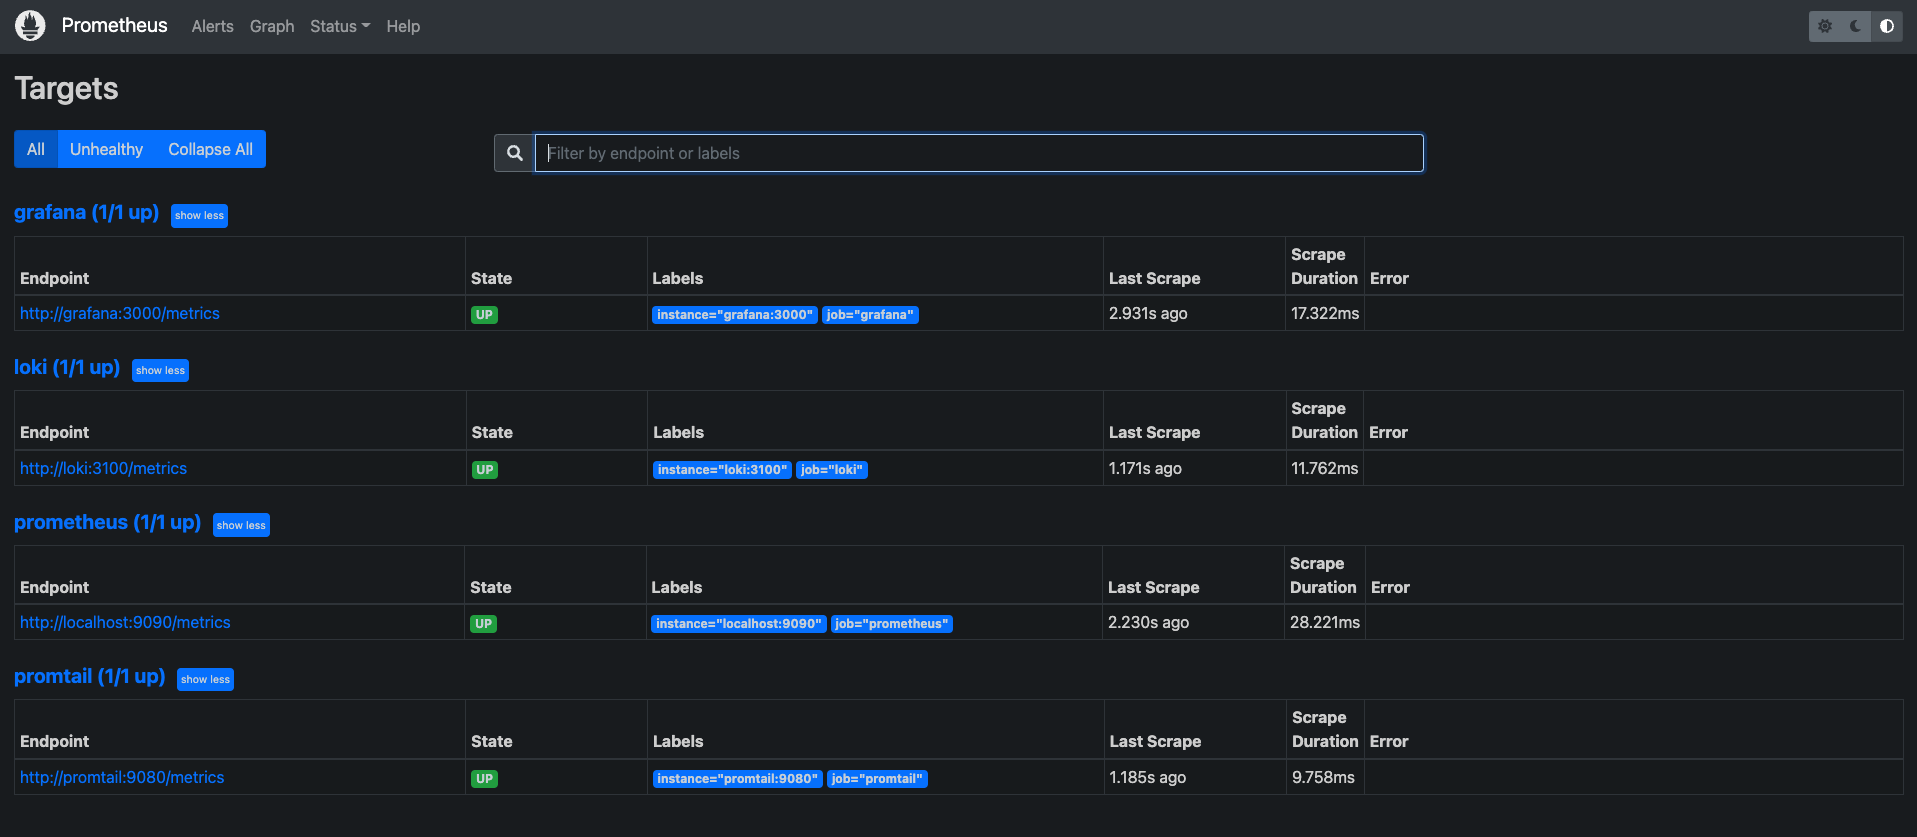
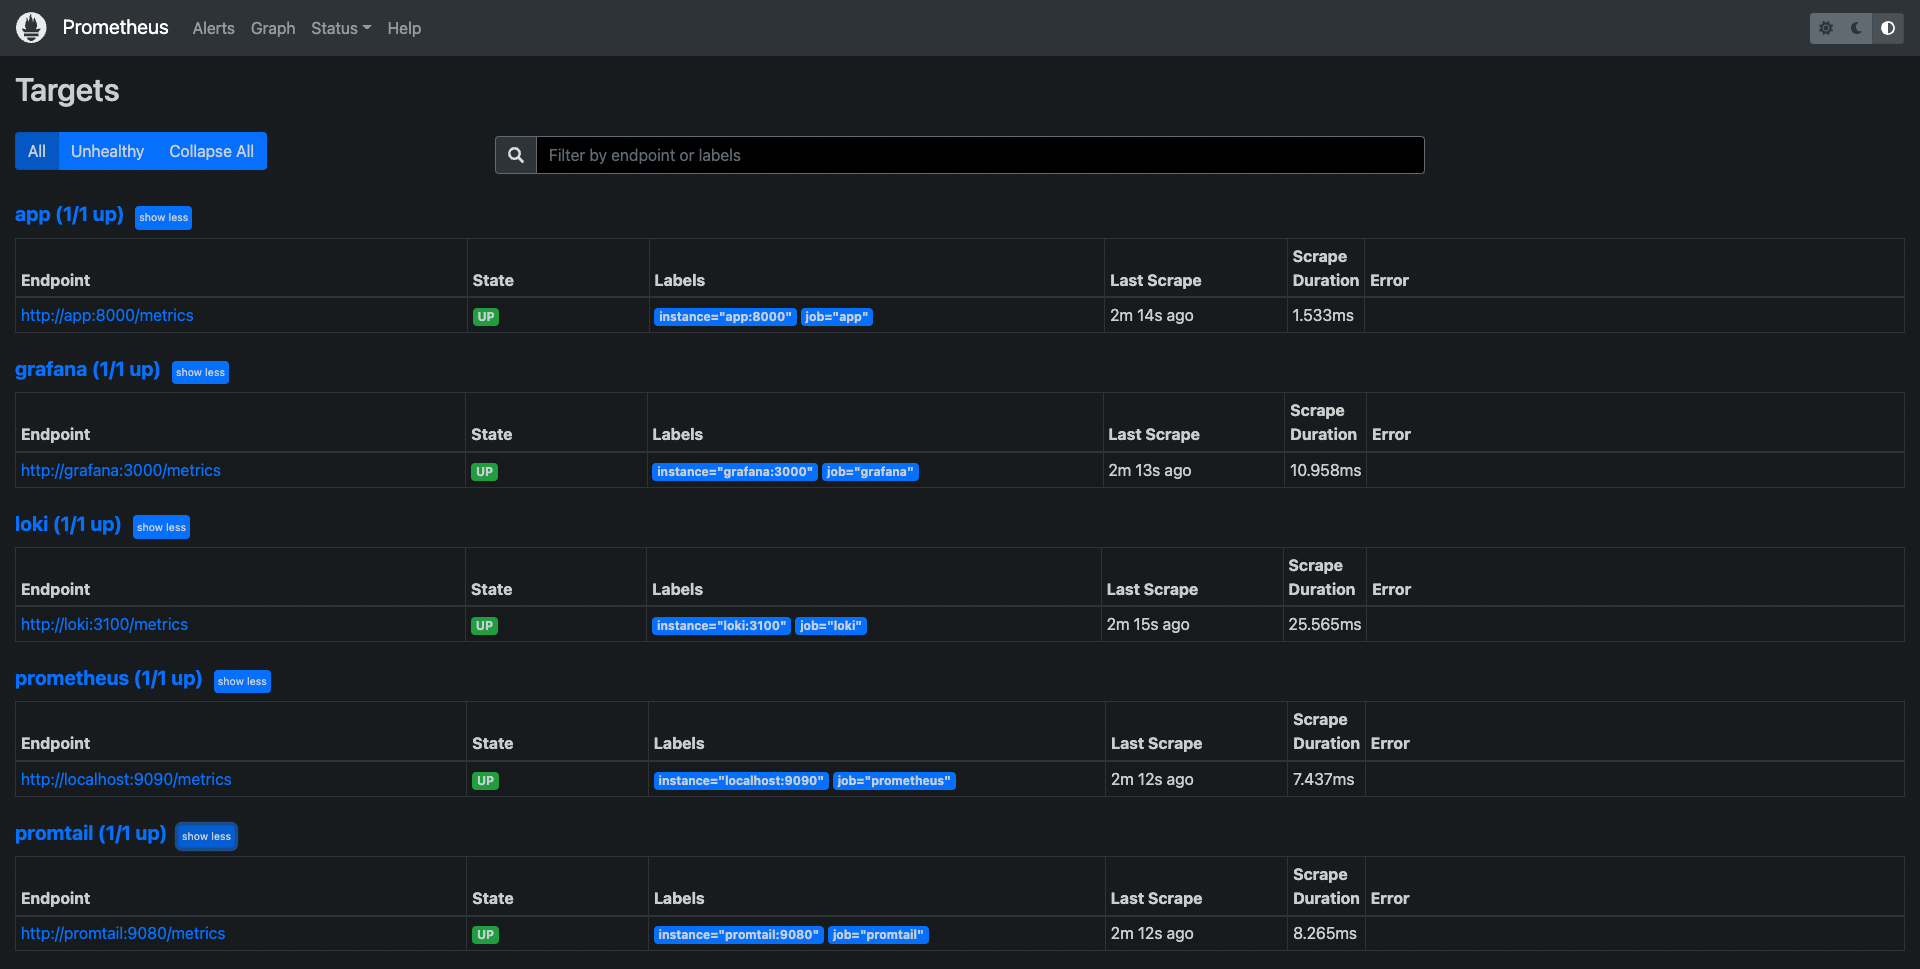
complete lab 8

diff --git a/app_python/templates/index.html b/app_python/templates/index.html
@@ -6,7 +6,7 @@
     <meta http-equiv="X-UA-Compatible" content="IE=edge">
     <meta name="viewport" content="width=device-width, initial-scale=1.0">
     <link rel="stylesheet" href="../static/main.css">
-    <title>Devops Lab 2 - Time Displayer</title>
+    <title>Moscow Time Displayer</title>
 </head>
 
 <body>

diff --git a/app_python/app.py b/app_python/app.py
@@ -2,18 +2,19 @@
 Moscow time server
 """
 import os
+from prometheus_flask_exporter import PrometheusMetrics
 from datetime import datetime
 from pytz import timezone
 from flask import Flask, render_template
 
 FILE_NAME = "./files/time.txt"
 
-
 def create_app():
     """
     Create app function
     """
     flask_app = Flask(__name__, template_folder='./templates')
+    metrics = PrometheusMetrics(flask_app)
     zone = os.environ.get('TIMEZONE', 'Europe/Moscow')
     time_format = os.environ.get('TIME_FORMAT', '%H:%M:%S')
     zone = timezone(zone)
